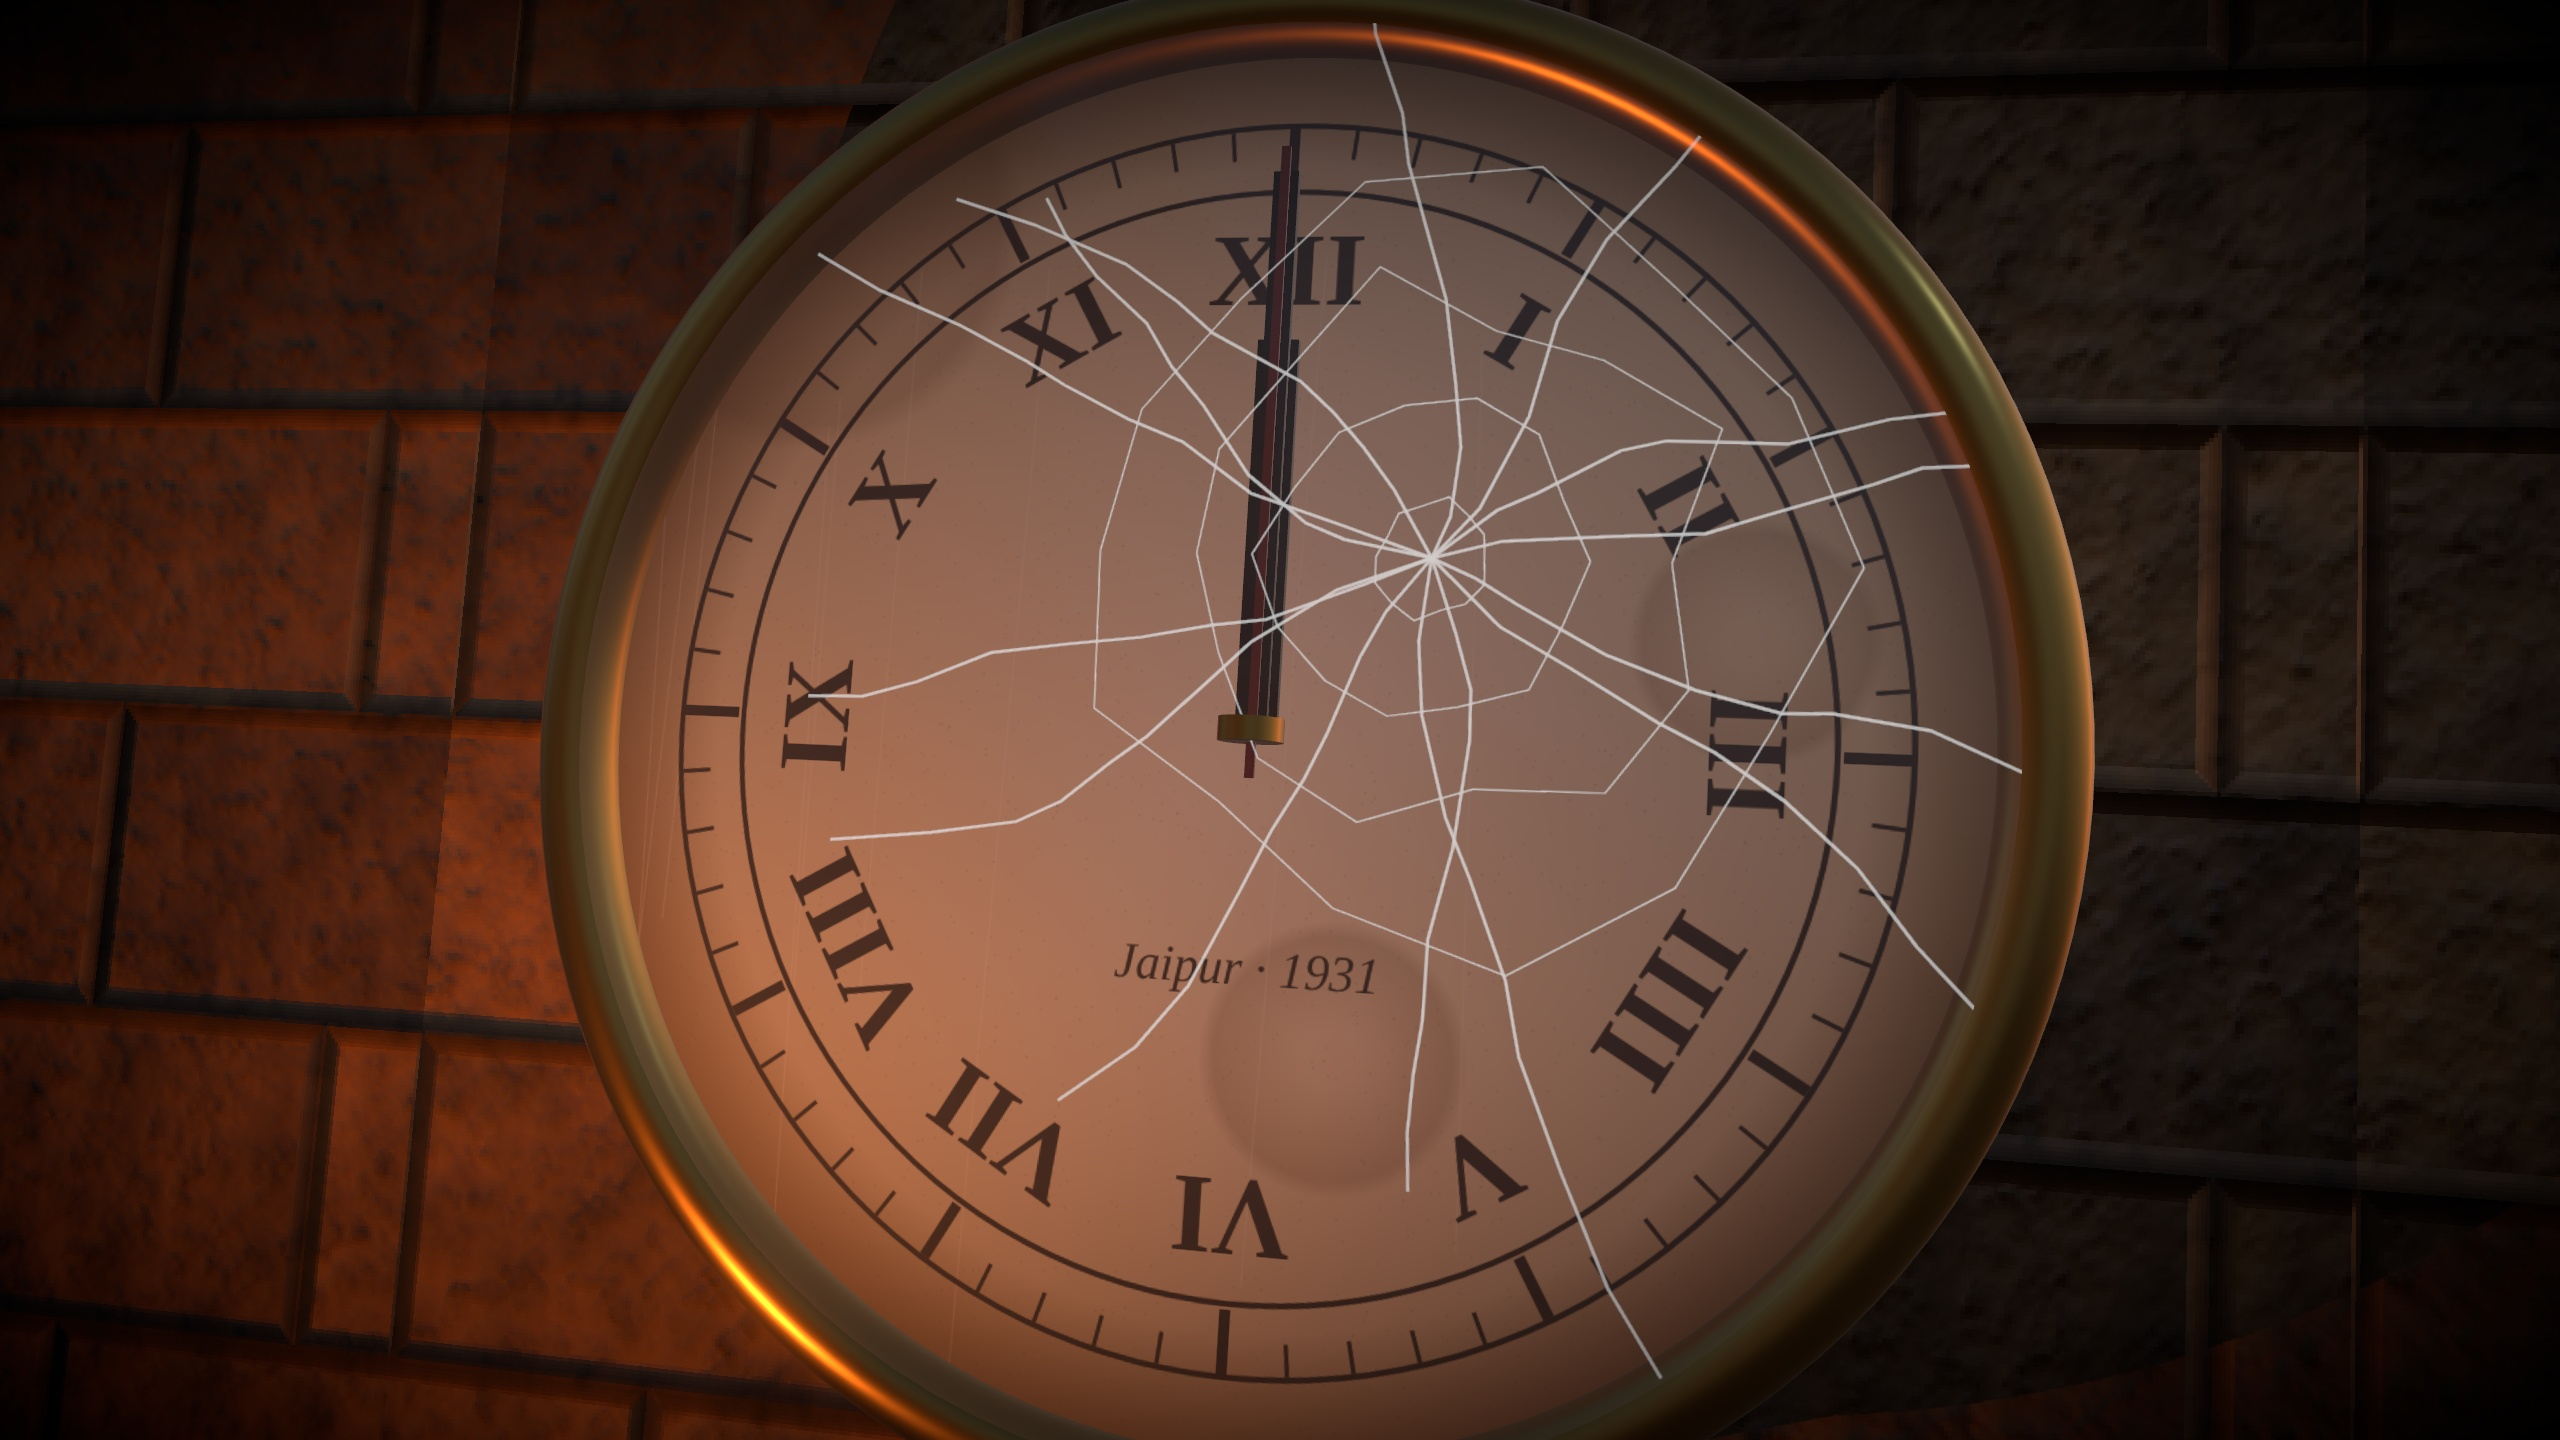
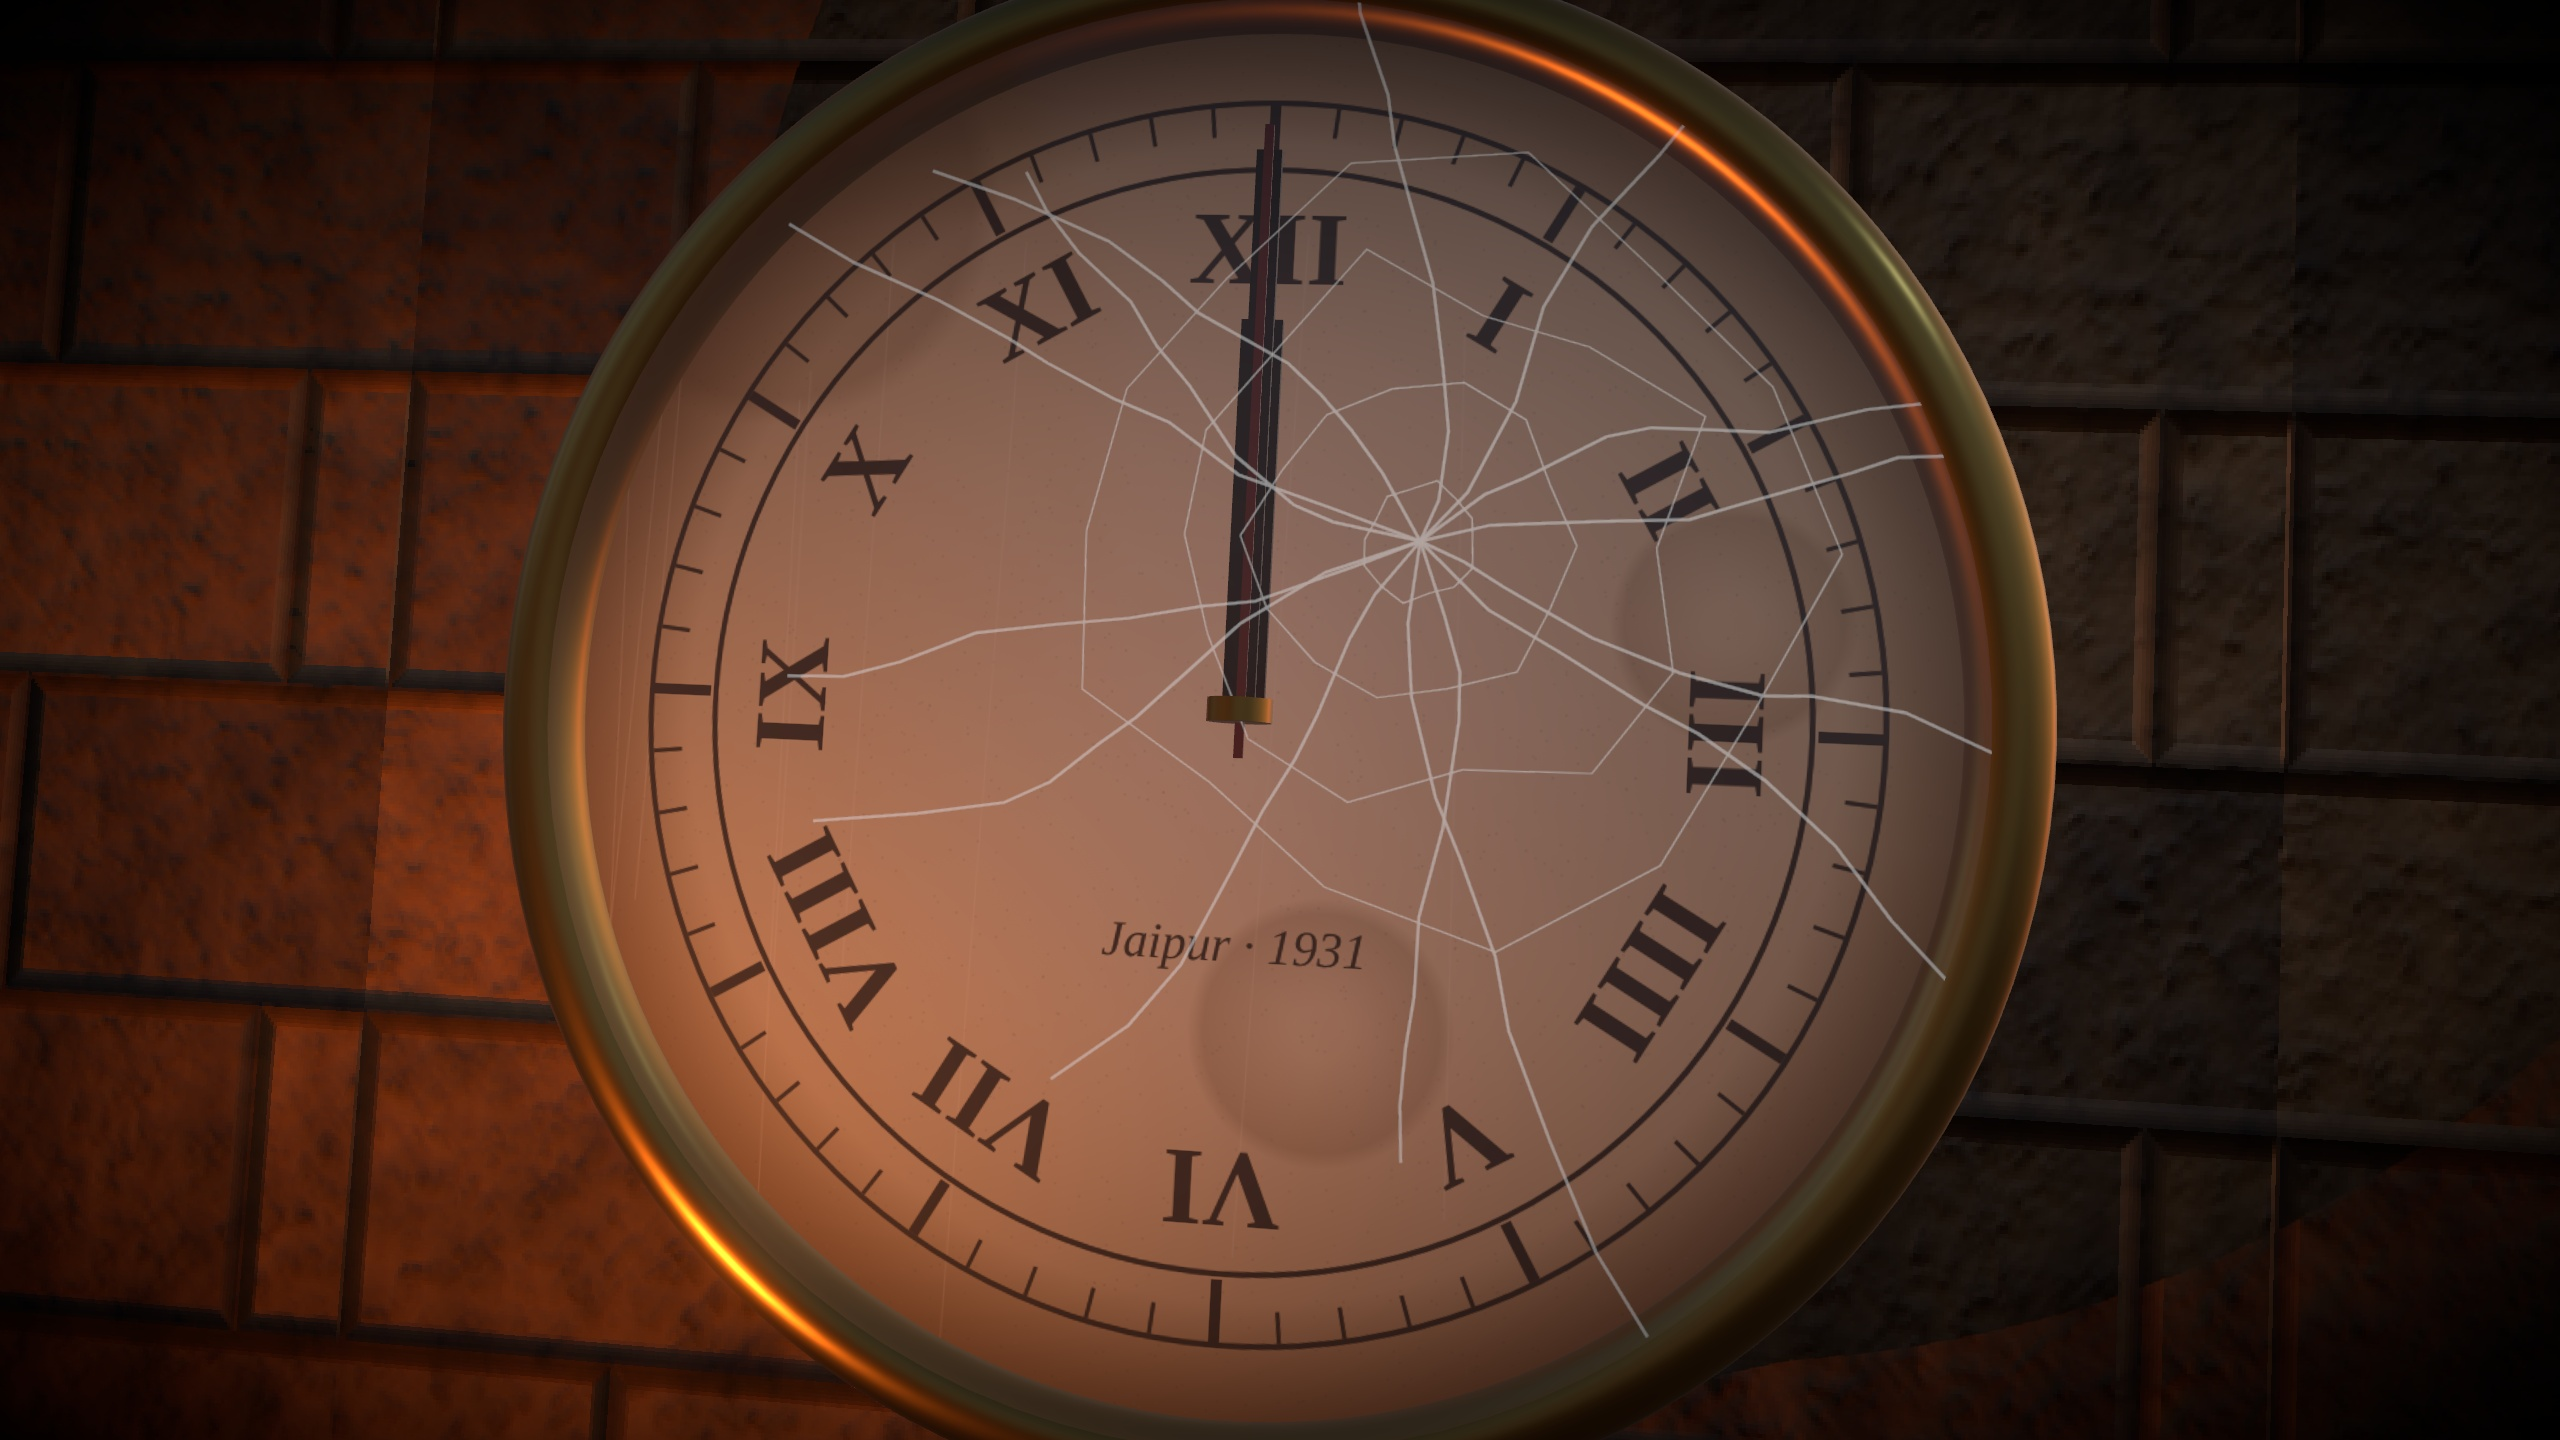
Add rendered 3D plates and plate-based film edit
Claude-Session: https://claude.ai/code/session_012692pHyAUUbvRZiFDbpTkC

diff --git a/video/khamosh-haveli/src/three/Plates.tsx b/video/khamosh-haveli/src/three/Plates.tsx
@@ -440,12 +440,12 @@ const ClockScene: React.FC<{twitch?: boolean}> = ({twitch}) => {
       </mesh>
       <mesh position={[0, 0, 0.325]}>
         <circleGeometry args={[1.52, 96]} />
-        <meshBasicMaterial map={glass} transparent opacity={0.55} depthWrite={false} />
+        <meshBasicMaterial map={glass} transparent opacity={0.28} depthWrite={false} />
       </mesh>
       {/* candle light from below-left, cool rim from the right */}
       <pointLight position={[-2.2, -2.2, 1.6]} color="#ff9440" intensity={14} distance={12} decay={1.6} castShadow shadow-mapSize-width={2048} shadow-mapSize-height={2048} />
       <pointLight position={[3, 2.5, 1.2]} color="#7fa0c0" intensity={2.5} distance={10} decay={1.6} />
-      <CameraRig position={[0.9, -0.35, 4.3]} target={[0, 0.05, 0]} fov={40} roll={-0.06} />
+      <CameraRig position={[0.6, -0.25, 4.4]} target={[0.05, 0.0, 0]} fov={40} roll={-0.05} />
       <EffectComposer multisampling={4}>
         <DepthOfField focusDistance={0.0} focalLength={0.06} bokehScale={2.5} />
         <Bloom intensity={0.6} luminanceThreshold={0.7} mipmapBlur />
@@ -643,7 +643,7 @@ const AlbumScene: React.FC<{page: 1 | 2 | 'photo'; eyes?: boolean}> = ({page, ey
       ) : (
         <mesh position={[1.35, 0.34, 0.0]} rotation={[-Math.PI / 2, 0, -0.03]} castShadow receiveShadow>
           <planeGeometry args={[1.7, 2.12]} />
-          <meshStandardMaterial map={portrait} roughness={0.45} emissiveMap={eyes ? portrait : null} emissive={eyes ? '#ff2010' : '#000'} emissiveIntensity={eyes ? 0.08 : 0} />
+          <meshStandardMaterial map={portrait} roughness={0.45}  />
         </mesh>
       )}
       {/* candle on the table */}
@@ -739,7 +739,7 @@ const TitleScene: React.FC<{variant: 'a' | 'b'}> = ({variant}) => {
       <points geometry={dust}>
         <pointsMaterial size={2.2} sizeAttenuation={false} color={new THREE.Color(3, 1.6, 0.6)} toneMapped={false} transparent opacity={0.7} />
       </points>
-      <CameraRig position={[0, 0.05, 7.2]} target={[0, -0.05, 0]} fov={40} />
+      <CameraRig position={[0, 0.05, 9.8]} target={[0, -0.1, 0]} fov={40} />
       <EffectComposer multisampling={4}>
         <Bloom intensity={1.2} luminanceThreshold={0.75} mipmapBlur />
         <Vignette offset={0.2} darkness={0.9} />

diff --git a/video/khamosh-haveli/src/three/textures.ts b/video/khamosh-haveli/src/three/textures.ts
@@ -164,7 +164,12 @@ export const paperTexture = (seed: string) => {
 };
 
 /** Vintage photograph print (with white border + caption) drawn around an image painter. */
-const photoPrint = (seed: string, caption: string, paint: (g: CanvasRenderingContext2D, w: number, h: number) => void) => {
+const photoPrint = (
+  seed: string,
+  caption: string,
+  paint: (g: CanvasRenderingContext2D, w: number, h: number) => void,
+  post?: (g: CanvasRenderingContext2D, w: number, h: number) => void
+) => {
   const W = 800;
   const H = 1000;
   const [c, g] = canvas(W, H);
@@ -183,6 +188,12 @@ const photoPrint = (seed: string, caption: string, paint: (g: CanvasRenderingCon
   vg.addColorStop(1, 'rgba(40,20,5,0.55)');
   g.fillStyle = vg;
   g.fillRect(40, 40, pw, ph);
+  if (post) {
+    g.save();
+    g.translate(40, 40);
+    post(g, pw, ph);
+    g.restore();
+  }
   age(g, W, H, seed, 1.2);
   g.fillStyle = '#4a2a12';
   g.font = 'italic 500 58px "Cormorant Garamond", serif';
@@ -264,7 +275,24 @@ export const portraitTexture = (eyes = 0) =>
     g.arc(w / 2, h * 0.3, 5, 0, Math.PI * 2);
     g.fill();
     g.filter = 'none';
-  });
+  }, eyes > 0 ? (g, w, h) => {
+    [-1, 1].forEach((s) => {
+      const x = w / 2 + s * w * 0.058;
+      const y = h * 0.352;
+      const glow = g.createRadialGradient(x, y, 0, x, y, w * 0.05);
+      glow.addColorStop(0, `rgba(255,40,20,${0.9 * eyes})`);
+      glow.addColorStop(0.35, `rgba(220,20,10,${0.5 * eyes})`);
+      glow.addColorStop(1, 'rgba(120,0,0,0)');
+      g.fillStyle = glow;
+      g.beginPath();
+      g.arc(x, y, w * 0.05, 0, Math.PI * 2);
+      g.fill();
+      g.fillStyle = `rgba(255,${120},${90},${eyes})`;
+      g.beginPath();
+      g.arc(x, y, w * 0.006, 0, Math.PI * 2);
+      g.fill();
+    });
+  } : undefined);
 
 export const familyPhotoTexture = () =>
   photoPrint('family', 'Thakur parivaar, 1946', (g, w, h) => {
